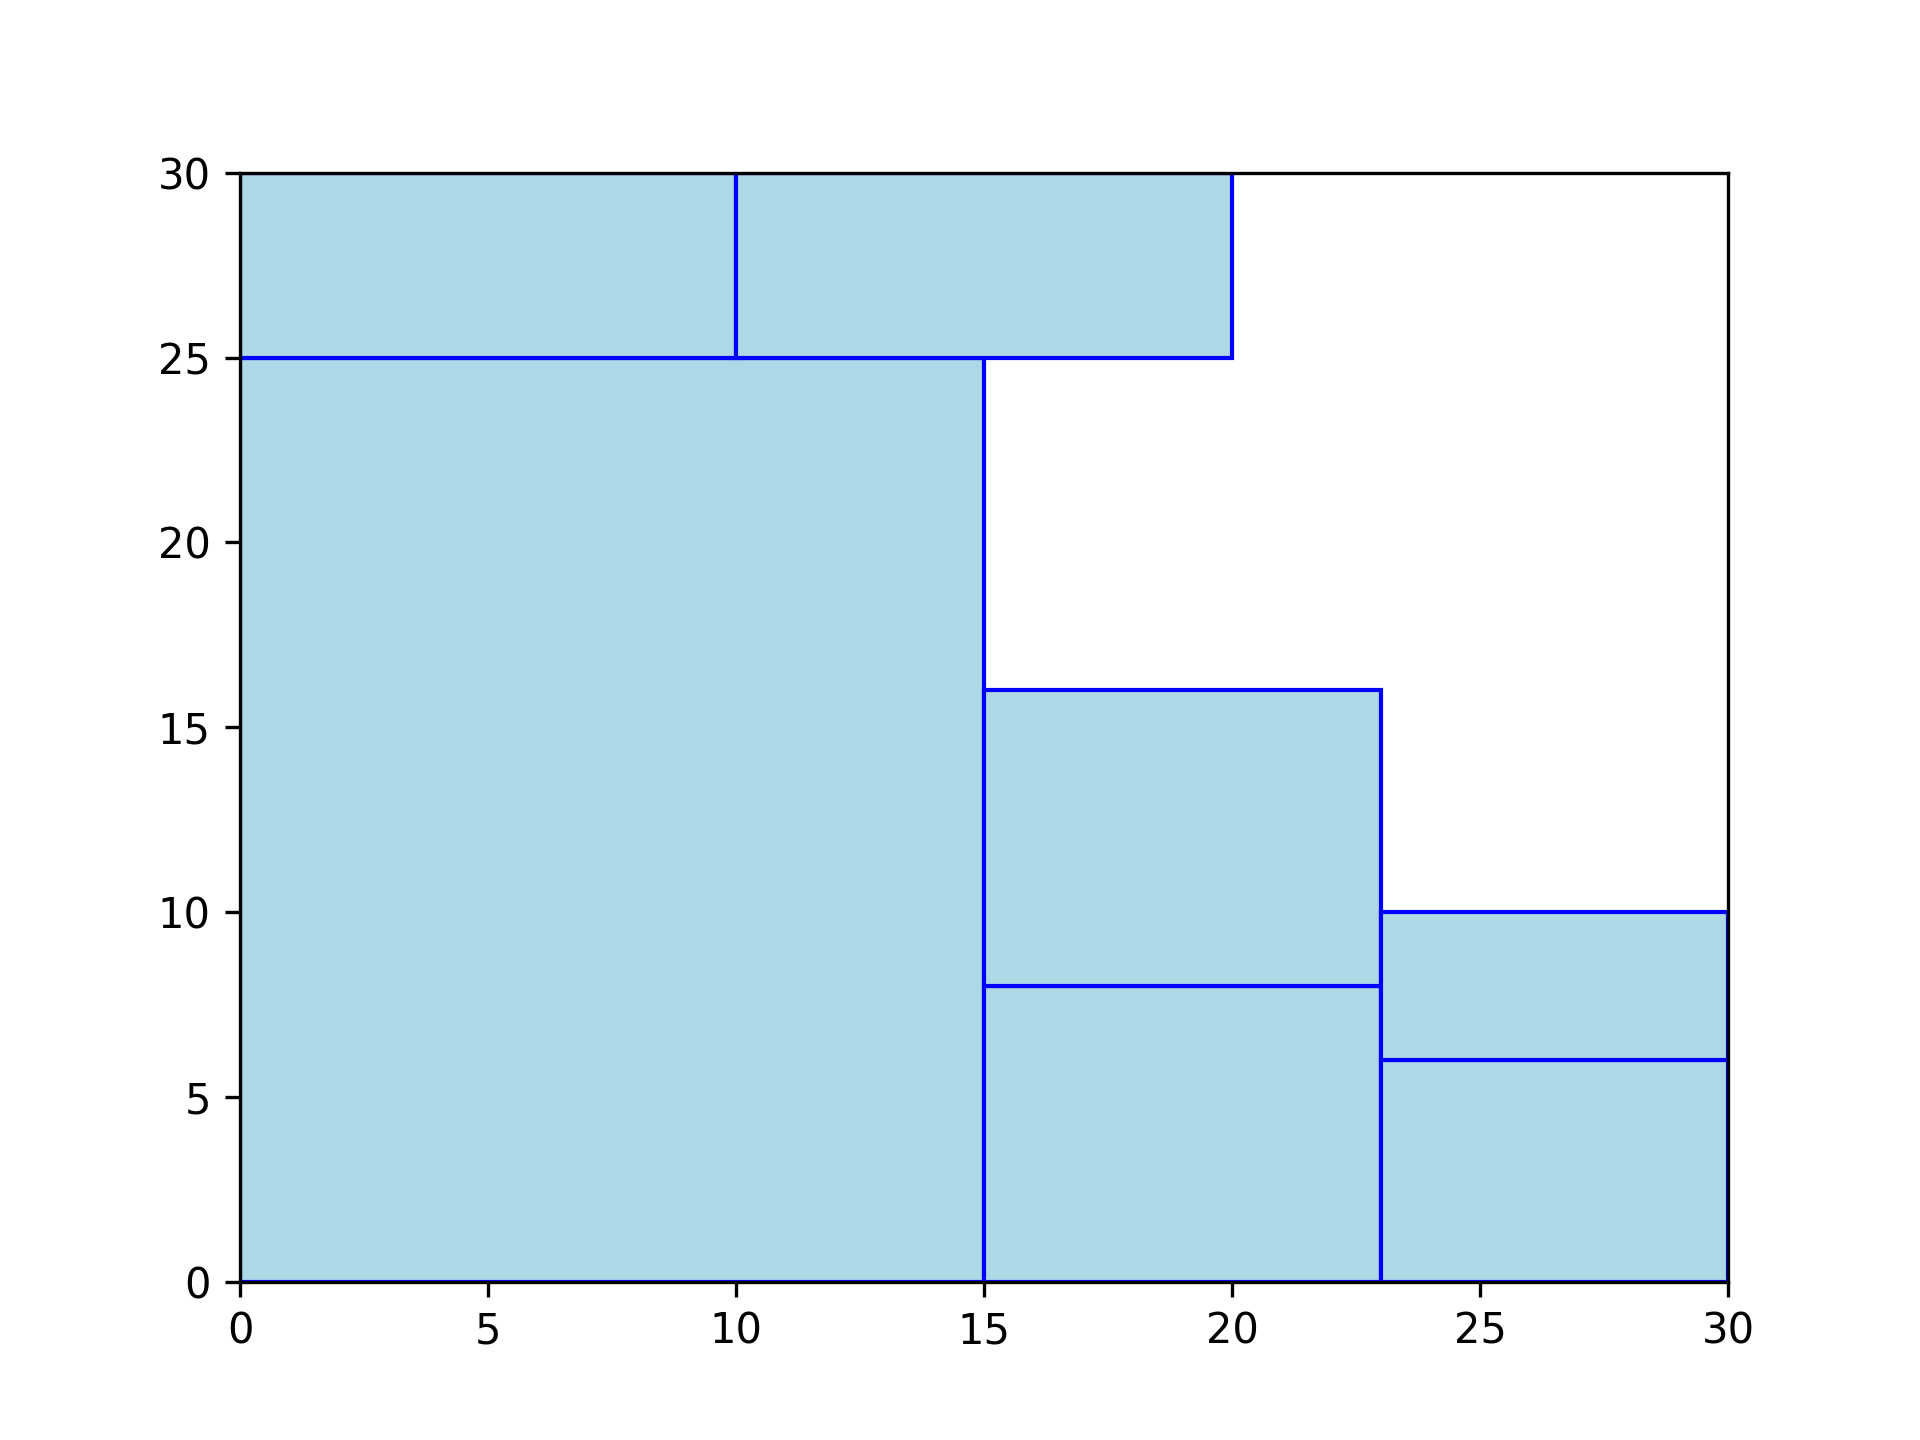
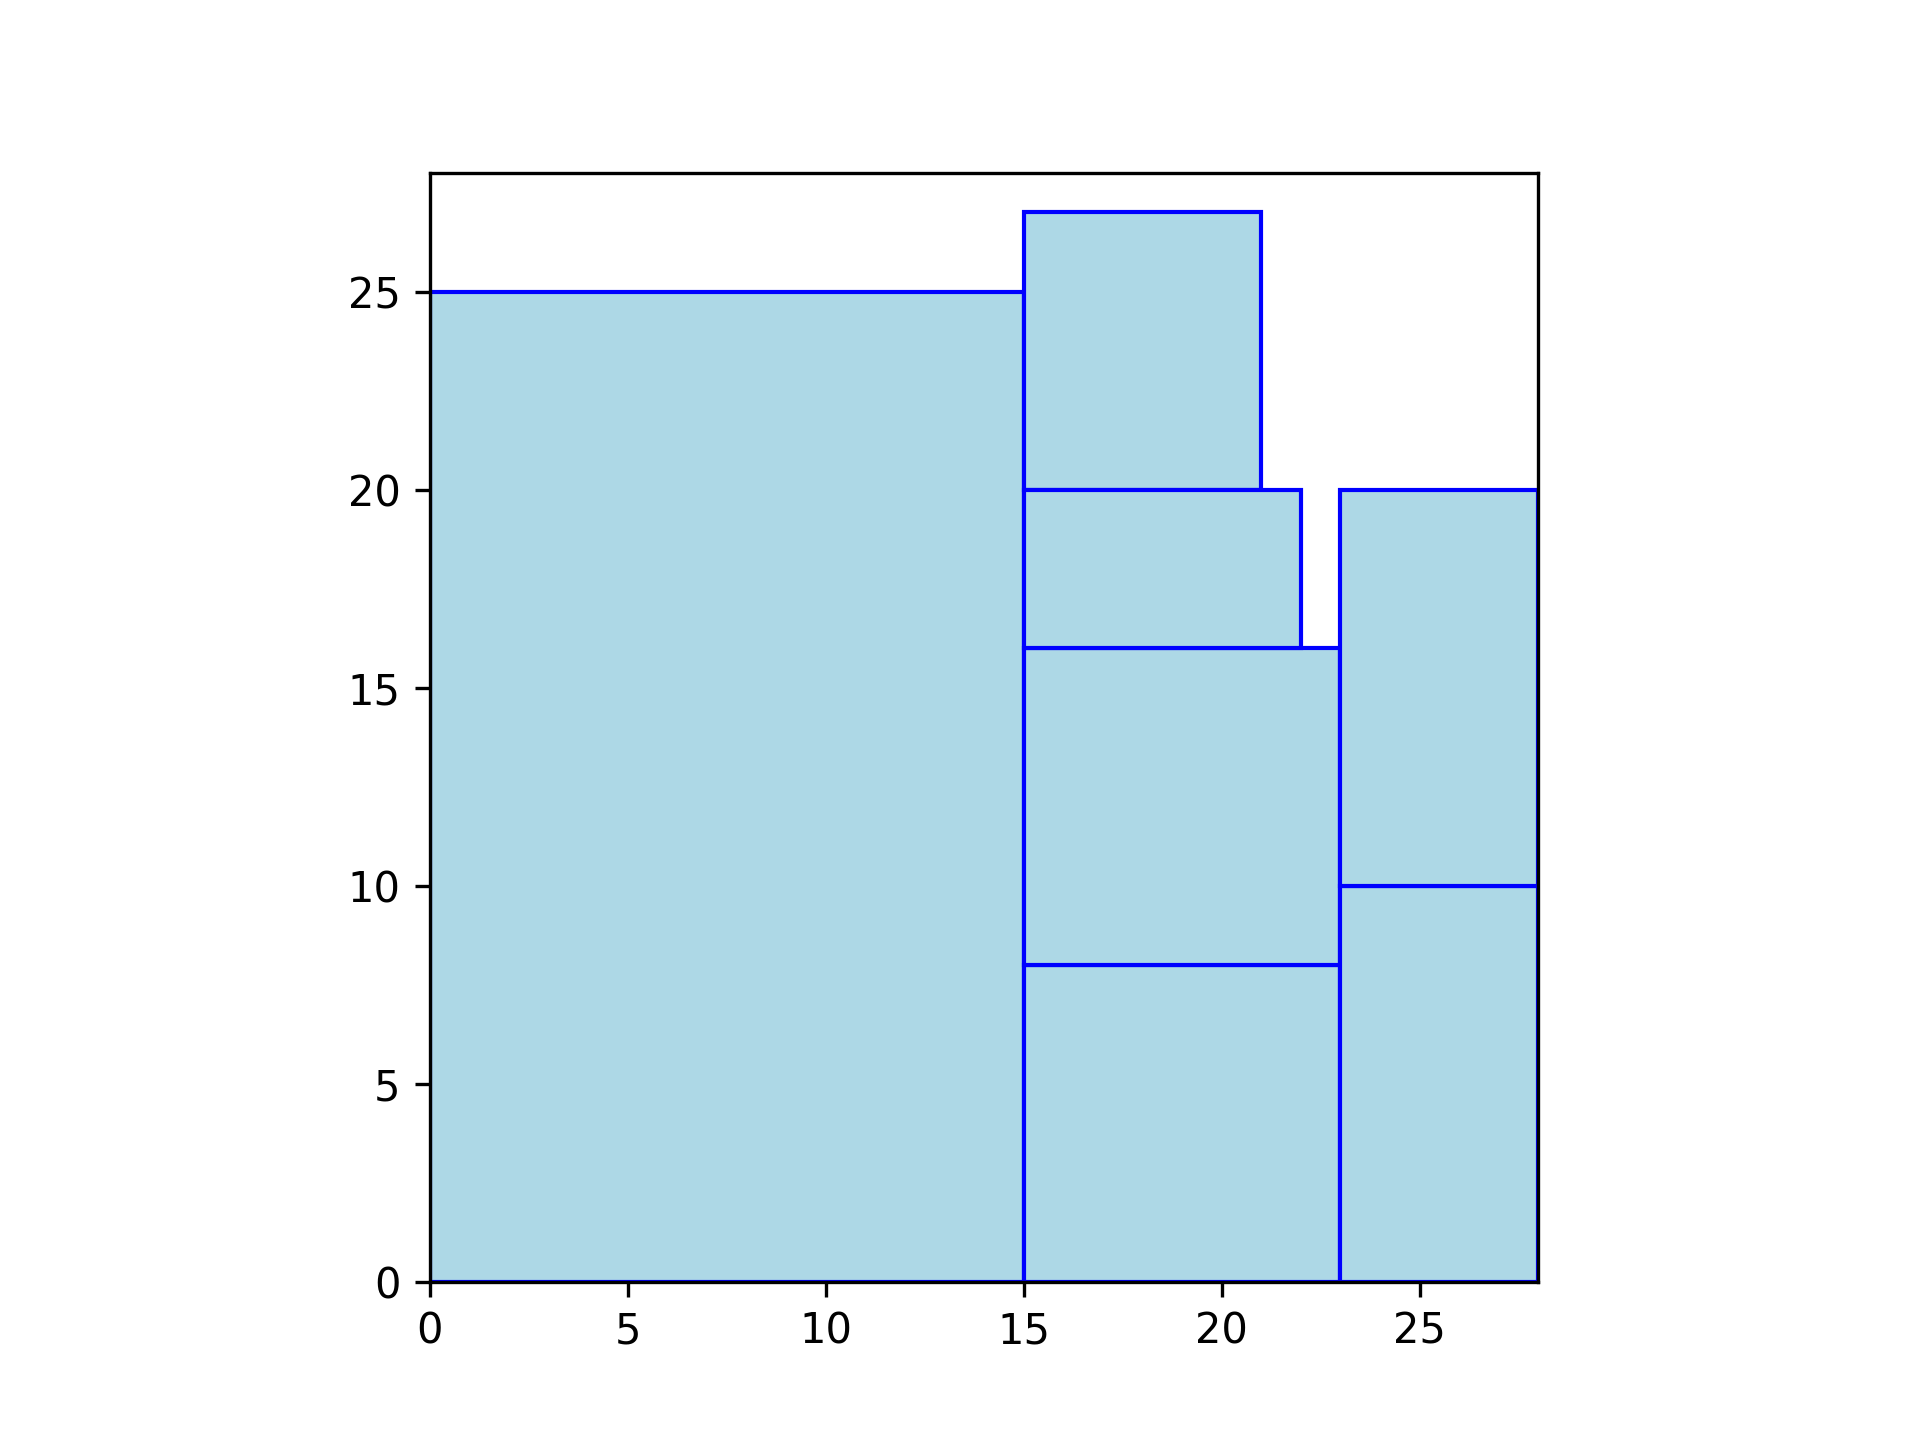
search minimum chipsize

diff --git a/sample.py b/sample.py
@@ -3,31 +3,49 @@ import matplotlib.pyplot as plt
 
 # IPブロックデータ
 blocks = [(5, 10),(5, 10), (8, 8),(8, 8), (6, 7),(4, 7),(15,25)]  # (幅, 高さ)
-bin_size = (30, 30)  # チップサイズ
 
-# パッカー初期化
-packer = newPacker()
+# 最小チップサイズ探索
+def find_minimum_chip_size(blocks):
+    # 初期値: 最大幅・高さの合計を仮の上限とする
+    max_width = sum(block[0] for block in blocks)
+    max_height = sum(block[1] for block in blocks)
+    
+    # 探索範囲の下限・上限
+    min_size = max(max(block[0] for block in blocks), max(block[1] for block in blocks))  # 最小辺
+    best_width, best_height = max_width, max_height
+    
+    # サイズを縮小しながら探索
+    for size in range(min_size, max(max_width, max_height) + 1):
+        packer = newPacker()
+        for block in blocks:
+            packer.add_rect(*block)
+        packer.add_bin(size, size)  # 正方形ビンで探索
+        packer.pack()
+        
+        # 成功した場合、最適なサイズを更新
+        if len(packer.rect_list()) == len(blocks):  # 全ブロックが配置可能
+            best_width, best_height = size, size
+            break
 
-# ブロックとビン追加
-for block in blocks:
-    packer.add_rect(*block)
-packer.add_bin(*bin_size)
+    return best_width, best_height, packer
 
-# パッキング実行
-packer.pack()
+# 最小サイズ探索
+chip_width, chip_height, final_packer = find_minimum_chip_size(blocks)
 
 # 結果表示
-for rect in packer.rect_list():
-    print(f"Block {rect[4]} placed at {rect[1]}, {rect[2]} with size {rect[3]}x{rect[4]}")
-
-
+print(f"最小チップサイズ: {chip_width} x {chip_height}")
+for rect in final_packer.rect_list():
+    print(f"Block placed at {rect[1]}, {rect[2]} with size {rect[3]}x{rect[4]}")
 
 # 配置結果描画
 fig, ax = plt.subplots()
-for rect in packer.rect_list():
+for rect in final_packer.rect_list():
     x, y, w, h = rect[1], rect[2], rect[3], rect[4]
     ax.add_patch(plt.Rectangle((x, y), w, h, edgecolor='blue', facecolor='lightblue'))
-plt.xlim(0, bin_size[0])
-plt.ylim(0, bin_size[1])
+plt.xlim(0, chip_width)
+plt.ylim(0, chip_height)
+plt.gca().set_aspect('equal', adjustable='box')
+plt.show()
+
 
 plt.savefig("chip_layout.png", dpi=300)
